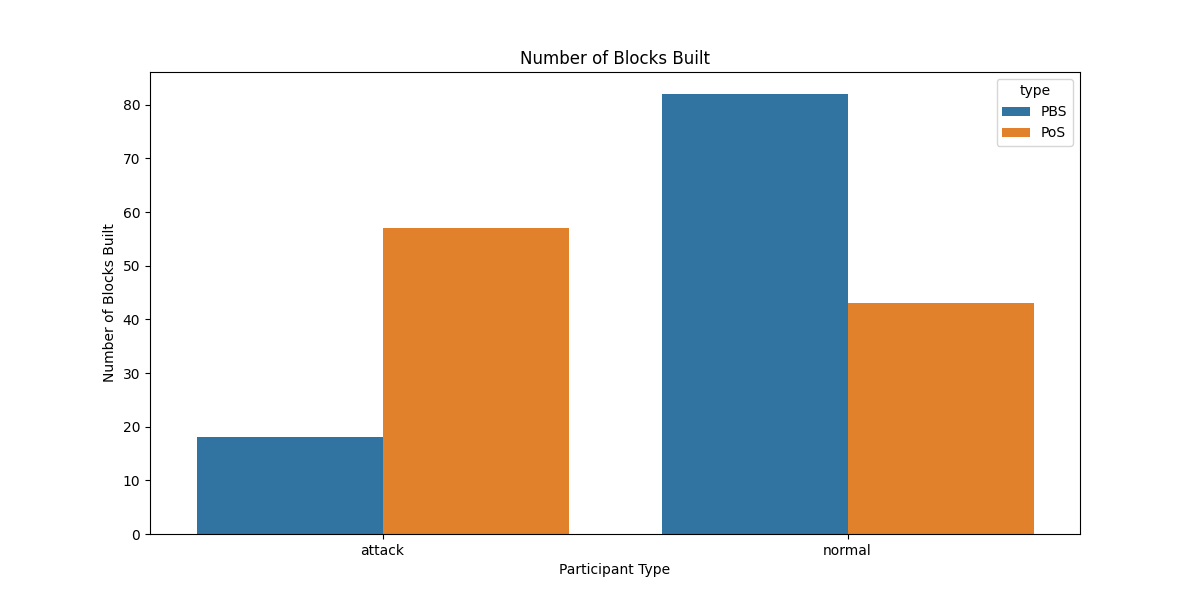
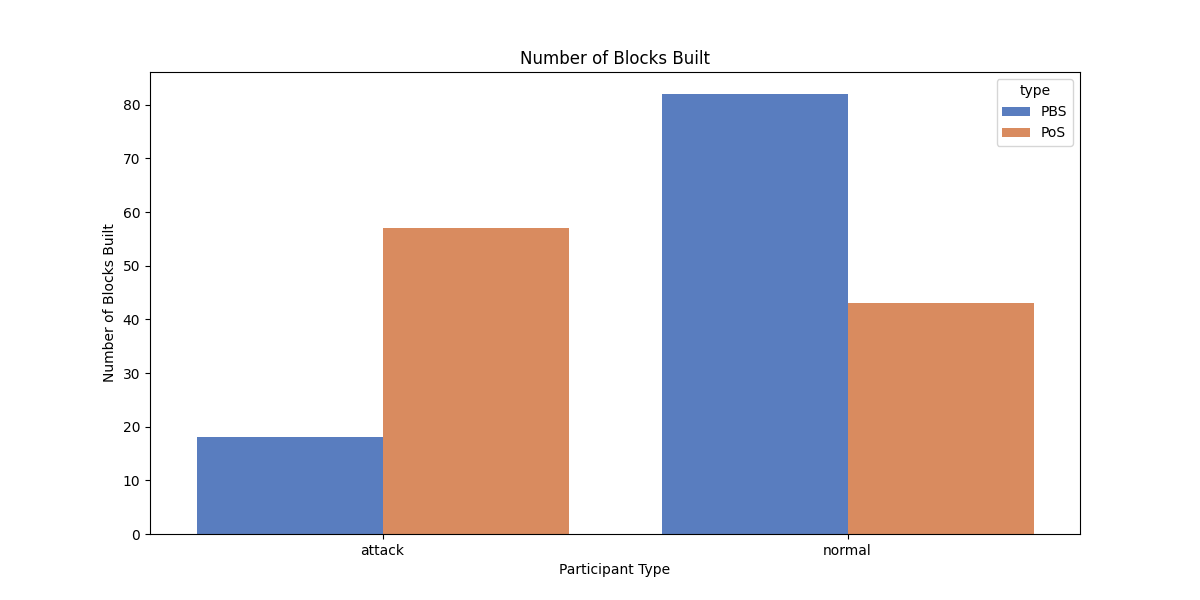
change

Changed region(s): [[0.5242, 0.15, 0.8633, 0.9], [0.1542, 0.36, 0.4933, 0.9], [0.8325, 0.18, 0.8633, 0.24]]

diff --git a/plots/new/distribution.py b/plots/new/distribution.py
@@ -1,8 +1,8 @@
 import pandas as pd
-import seaborn as sns
-import matplotlib.pyplot as plt
-import numpy as np
 import os
+import numpy as np
+import matplotlib.pyplot as plt
+import seaborn as sns
 
 # Load the data
 block_data_pbs = pd.read_csv('data/block_data_pbs.csv')
@@ -44,7 +44,7 @@ os.makedirs('figures/new', exist_ok=True)
 
 # Plot the number of blocks built
 plt.figure(figsize=(12, 6))
-sns.barplot(x='participant_type', y='blocks_built', hue='type', data=blocks_built)
+sns.barplot(x='participant_type', y='blocks_built', hue='type', data=blocks_built, palette='muted')
 plt.title('Number of Blocks Built')
 plt.xlabel('Participant Type')
 plt.ylabel('Number of Blocks Built')
@@ -53,10 +53,10 @@ plt.close()
 
 # Plot the profits
 plt.figure(figsize=(12, 6))
-sns.barplot(x='participant_type', y='profit', hue='type', data=profits)
-plt.title('Profits')
+sns.barplot(x='participant_type', y='profit', hue='type', data=profits, palette='muted')
+plt.title('Total profit of different participant types')
 plt.xlabel('Participant Type')
-plt.ylabel('Profit')
+plt.ylabel('Profits')
 plt.savefig('figures/new/profits.png')
 plt.close()
 
@@ -80,3 +80,31 @@ print("Builder Profits Distribution (PBS):")
 print(builder_profits)
 print("\nValidator Profits Distribution (PoS):")
 print(validator_profits)
+
+# Violin plot for reward distribution
+def plot_reward_distribution(data_pbs, data_pos):
+    data_pbs['total_block_value'] = data_pbs['total_gas'] + data_pbs['total_mev_captured']
+    data_pbs['reward'] = data_pbs['total_block_value'] - data_pbs['block_bid']
+
+    data_pos['total_block_value'] = data_pos['total_gas'] + data_pos['total_mev_captured']
+    data_pos['reward'] = data_pos['total_block_value']
+
+    data_pbs['type'] = 'PBS'
+    data_pos['type'] = 'PoS'
+
+    data_pbs = data_pbs.rename(columns={'builder_type': 'participant_type'})
+    data_pos = data_pos.rename(columns={'validator_type': 'participant_type'})
+
+    reward_data = pd.concat([data_pbs, data_pos])
+    reward_data['log_reward'] = np.log1p(reward_data['reward'])
+
+    plt.figure(figsize=(12, 6))
+    sns.violinplot(x='participant_type', y='log_reward', hue='type', data=reward_data, palette='pastel', split=True)
+    plt.title('Total profit of different participant types')
+    plt.xlabel('Participant Type')
+    plt.ylabel('Log Reward')
+    plt.legend(title='Type')
+    plt.savefig('figures/new/total_profit_distribution.png')
+    plt.close()
+
+plot_reward_distribution(block_data_pbs, block_data_pos)
